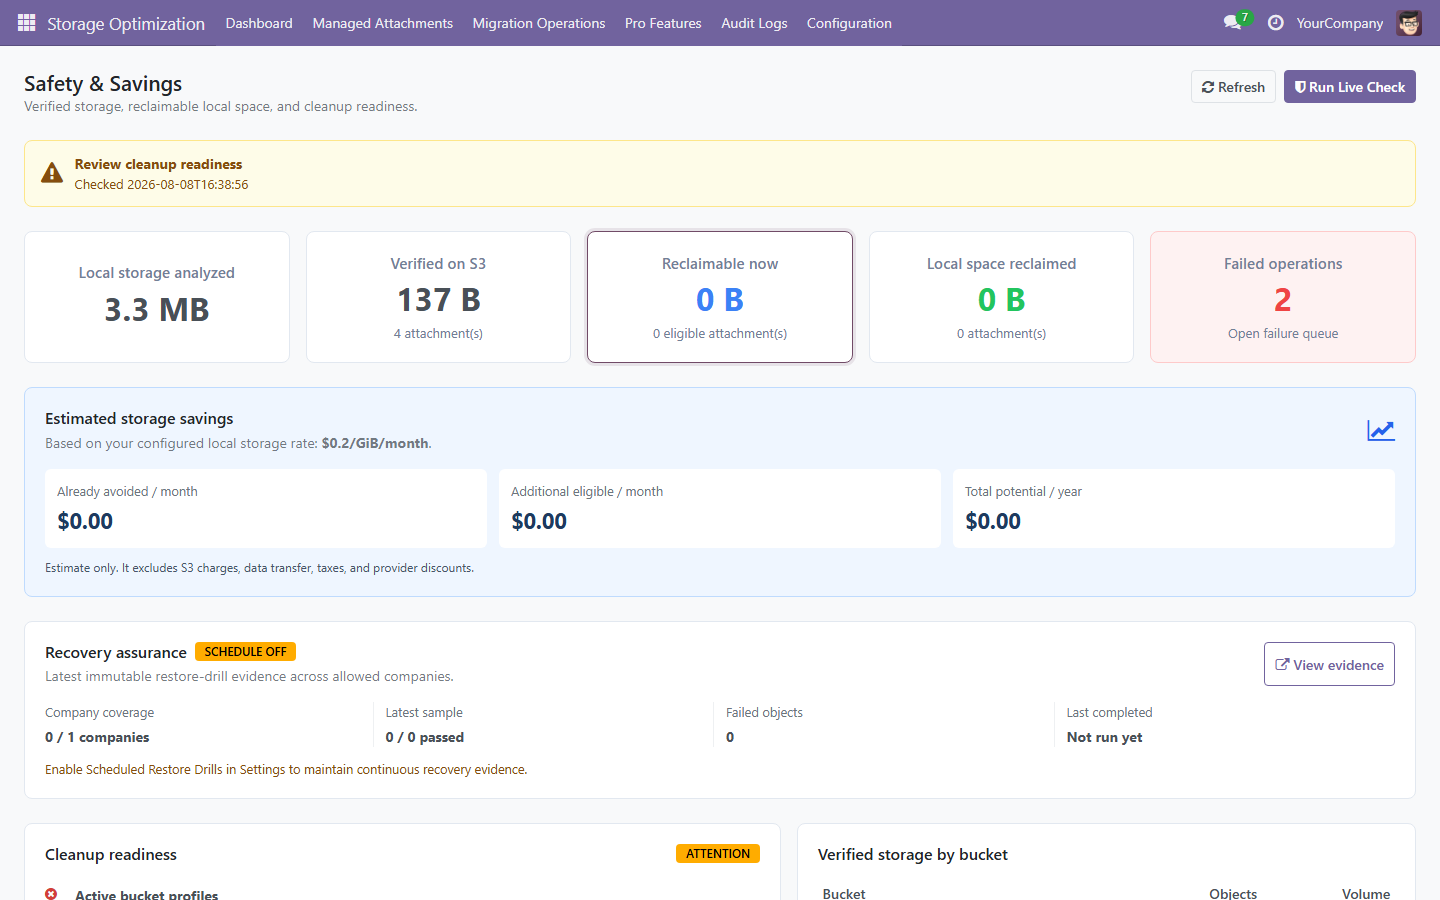
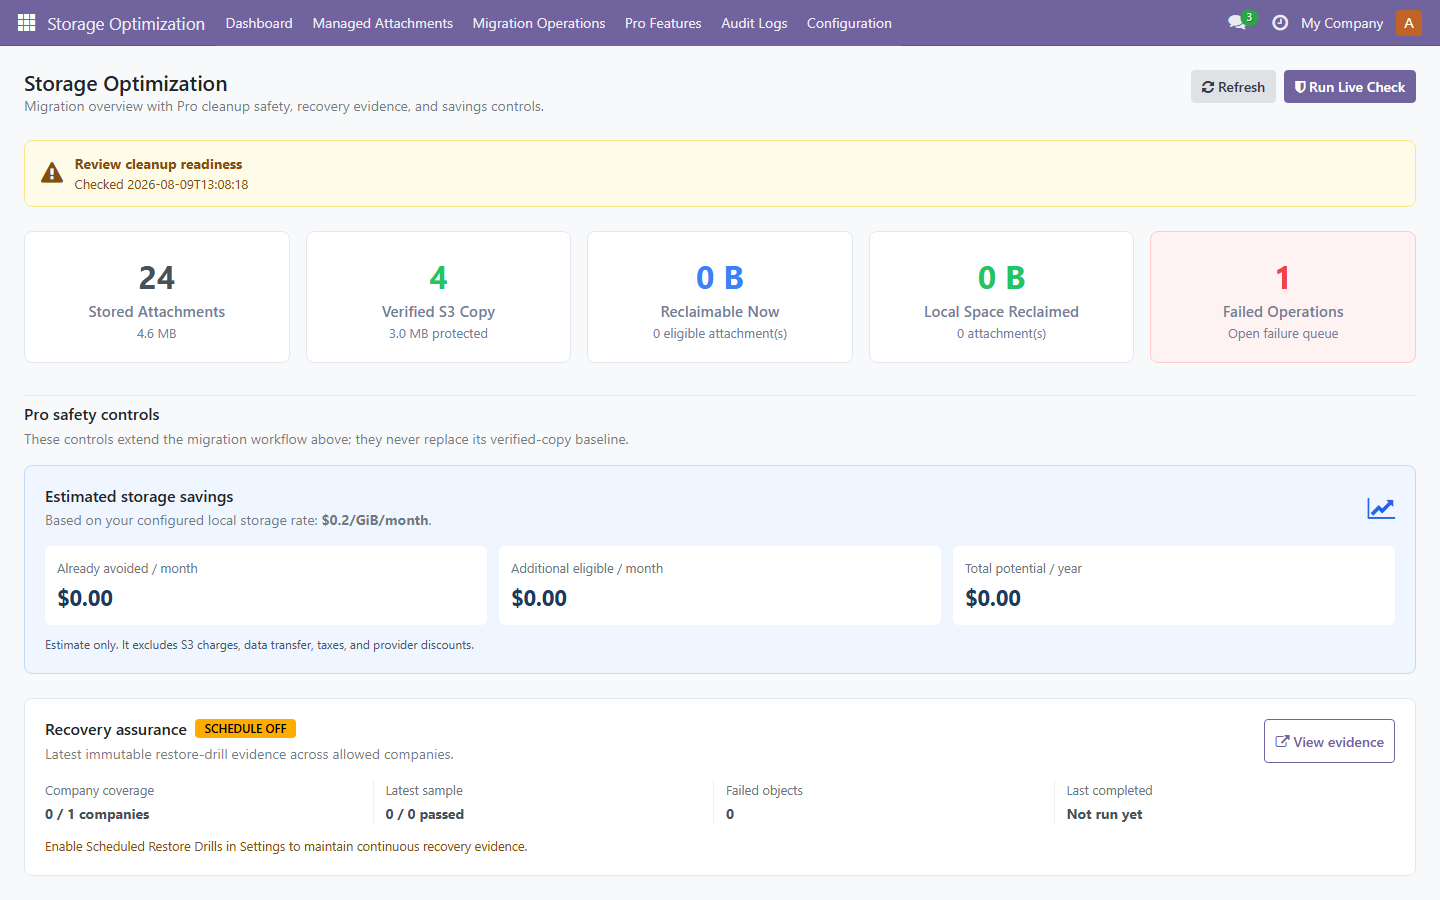
Align Pro dashboard with Free edition

diff --git a/attachment_optimizer_pro/static/description/index.html b/attachment_optimizer_pro/static/description/index.html
@@ -96,6 +96,6 @@ For subsequent modules, update content inside sections only. Do not alter sectio
     </div>
 
     <!-- FOOTER -->
-    <div style="border:1px solid #e2e8f0; border-radius:16px; padding:32px 24px; margin:40px 0 16px; text-align:center;"><div style="font-size:14px; font-weight:700; color:#1e293b; text-transform:uppercase;">Attachment Optimizer Pro</div><p style="font-size:13px; color:#64748b; line-height:1.6;">Automated, verified S3-compatible attachment lifecycle management for Odoo.</p><div style="display:inline-block; border:2px solid #4f46e5; color:#4f46e5; font-weight:700; font-size:13px; padding:10px 28px; border-radius:8px;">US$49 · One-Time · No Subscription</div><p style="font-size:11px; color:#94a3b8; margin:20px 0 0;">Version 18.0.1.0.18 · Built and maintained by FoxPink</p></div>
+    <div style="border:1px solid #e2e8f0; border-radius:16px; padding:32px 24px; margin:40px 0 16px; text-align:center;"><div style="font-size:14px; font-weight:700; color:#1e293b; text-transform:uppercase;">Attachment Optimizer Pro</div><p style="font-size:13px; color:#64748b; line-height:1.6;">Automated, verified S3-compatible attachment lifecycle management for Odoo.</p><div style="display:inline-block; border:2px solid #4f46e5; color:#4f46e5; font-weight:700; font-size:13px; padding:10px 28px; border-radius:8px;">US$49 · One-Time · No Subscription</div><p style="font-size:11px; color:#94a3b8; margin:20px 0 0;">Version 18.0.1.0.19 · Built and maintained by FoxPink</p></div>
   </div>
 </section>

diff --git a/attachment_optimizer_pro/static/src/components/pro_dashboard/pro_dashboard.scss b/attachment_optimizer_pro/static/src/components/pro_dashboard/pro_dashboard.scss
@@ -70,6 +70,7 @@ html .o_web_client .o_action_manager .o_pro_safety_dashboard {
 .o_pro_kpi_card small,
 .o_pro_kpi_label { color: #718096; }
 .o_pro_kpi_label { font-size: .95rem; font-weight: 600; }
+.o_pro_value_success { color: #22c55e; }
 .o_pro_kpi_action { cursor: pointer; transition: border-color .15s ease, box-shadow .15s ease; }
 .o_pro_kpi_action:hover,
 .o_pro_kpi_action:focus-visible { border-color: var(--o-brand-primary, #714b67); box-shadow: 0 0 0 3px rgba(113, 75, 103, .12); outline: 0; }
@@ -77,6 +78,17 @@ html .o_web_client .o_action_manager .o_pro_safety_dashboard {
 .o_pro_kpi_success strong { color: #22c55e; }
 .o_pro_kpi_danger { background: #fef2f2; border-color: #fecaca; }
 .o_pro_kpi_danger strong { color: #ef4444; }
+
+.o_pro_section_intro {
+    display: flex;
+    align-items: baseline;
+    justify-content: space-between;
+    gap: 16px;
+    margin: 32px 0 16px;
+    padding-top: 8px;
+    border-top: 1px solid #e2e8f0;
+}
+.o_pro_section_intro h3 { margin: 0 0 4px; font-size: 1rem; font-weight: 600; }
 
 .o_pro_savings_panel {
     margin-bottom: 24px;

diff --git a/attachment_optimizer_pro/__manifest__.py b/attachment_optimizer_pro/__manifest__.py
@@ -1,6 +1,6 @@
 {
     "name": "Attachment Optimizer Pro",
-    "version": "18.0.1.0.18",
+    "version": "18.0.1.0.19",
     "category": "Storage",
     "summary": "Automation, cleanup, routing and lifecycle for S3-compatible attachment storage.",
     "description": """

diff --git a/README.md b/README.md
@@ -8,7 +8,7 @@ Only update product content, version, links, compatibility status, screenshots, 
 
 ![Attachment Optimizer Pro](attachment_optimizer_pro/static/description/preview.png)
 
-**Version:** 18.0.1.0.18 -- **License:** OPL-1 -- **Publisher:** FoxPink -- Maintained for **Odoo 18.0**
+**Version:** 18.0.1.0.19 -- **License:** OPL-1 -- **Publisher:** FoxPink -- Maintained for **Odoo 18.0**
 
 ---
 
